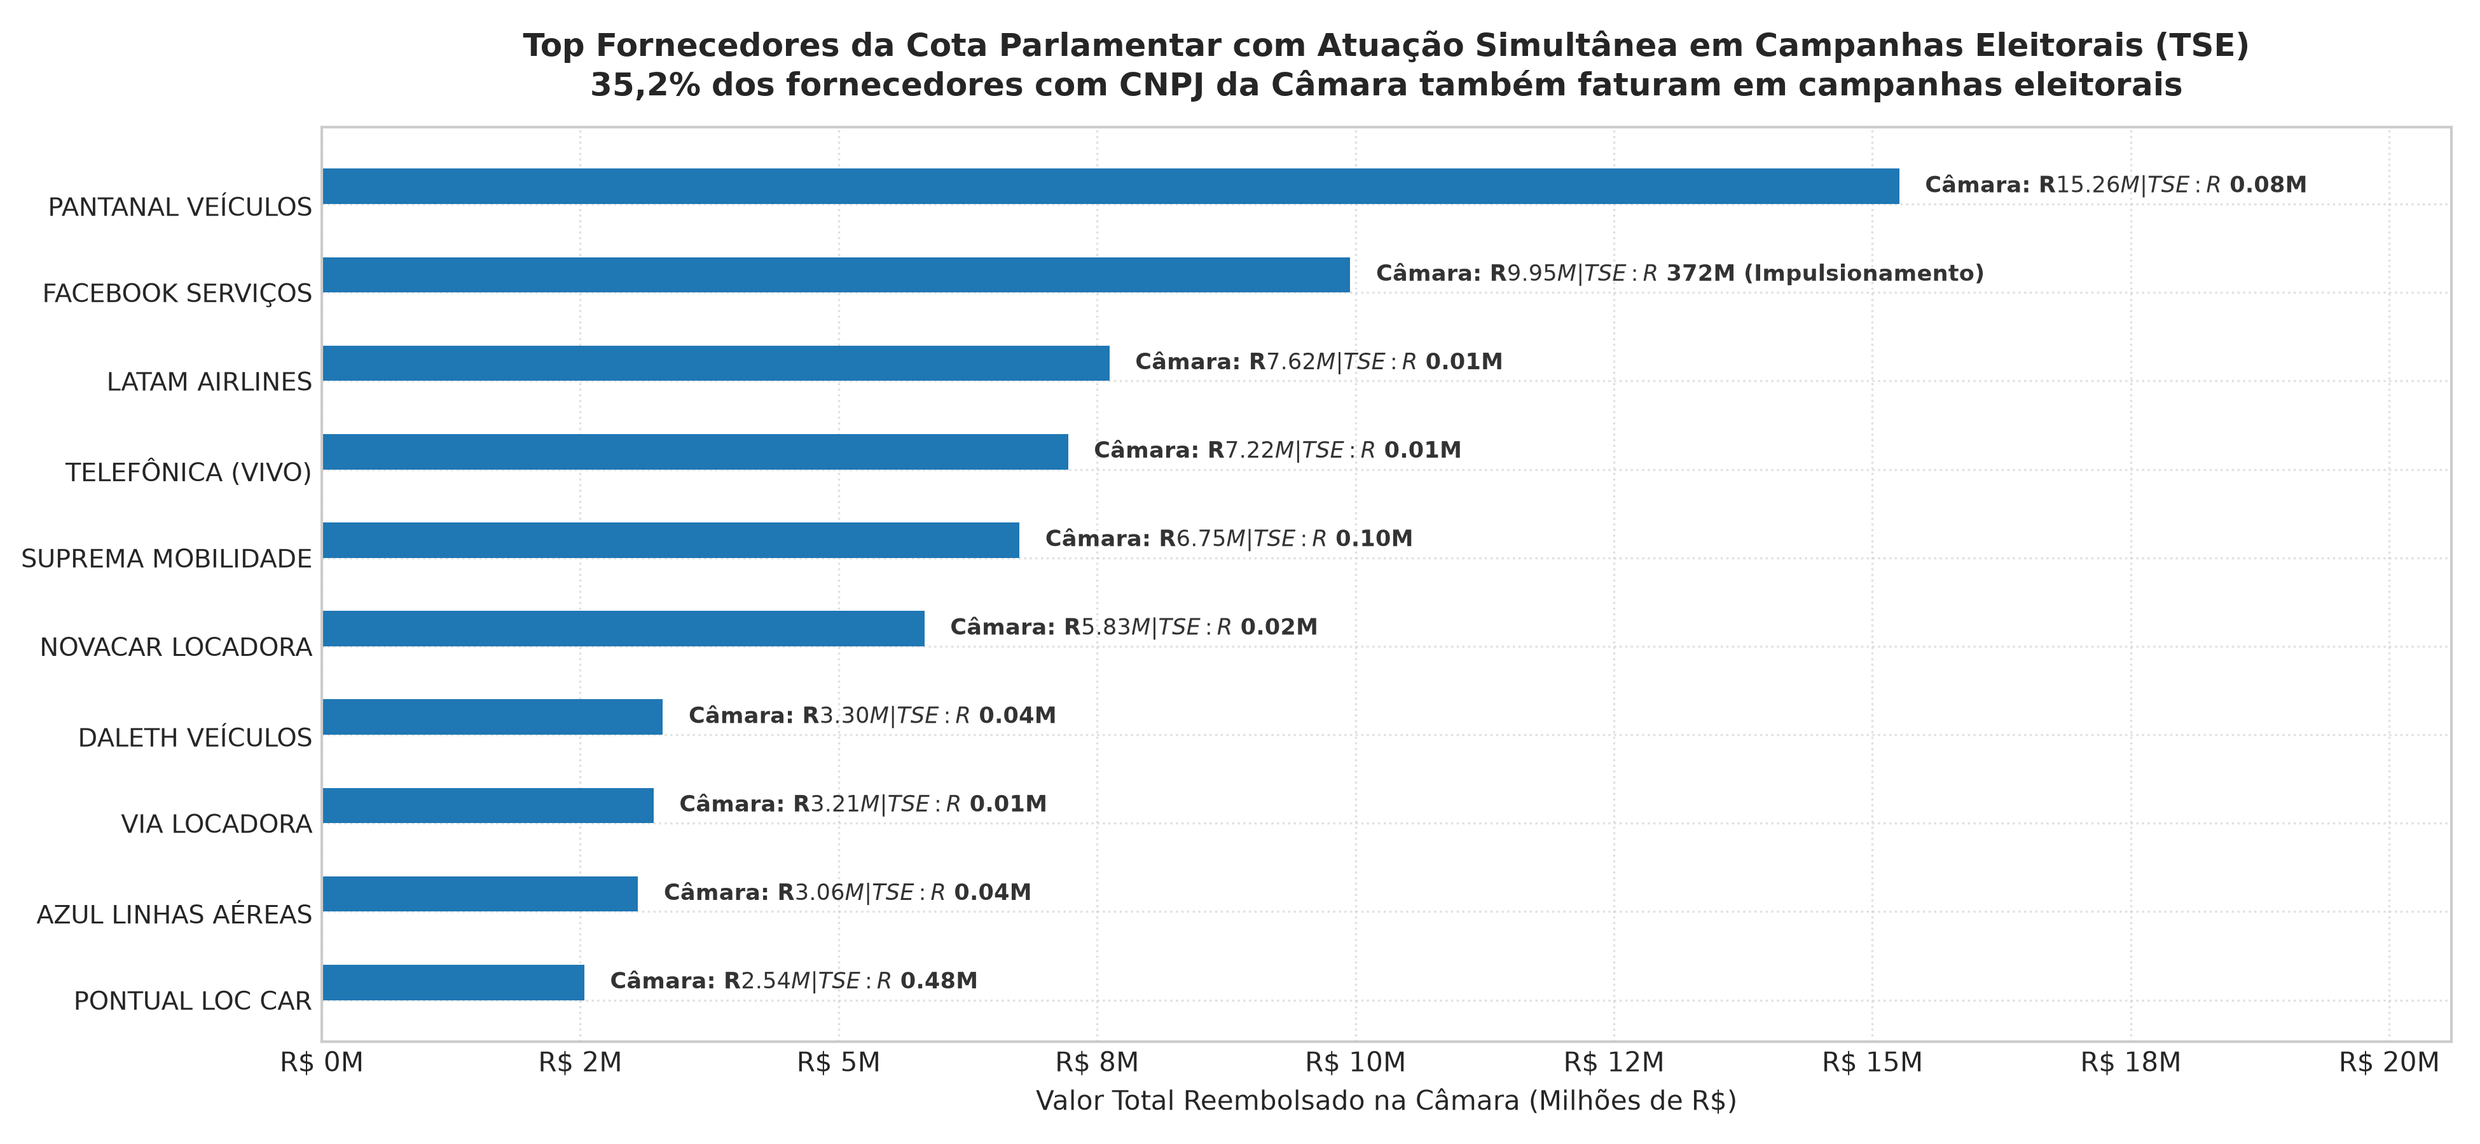
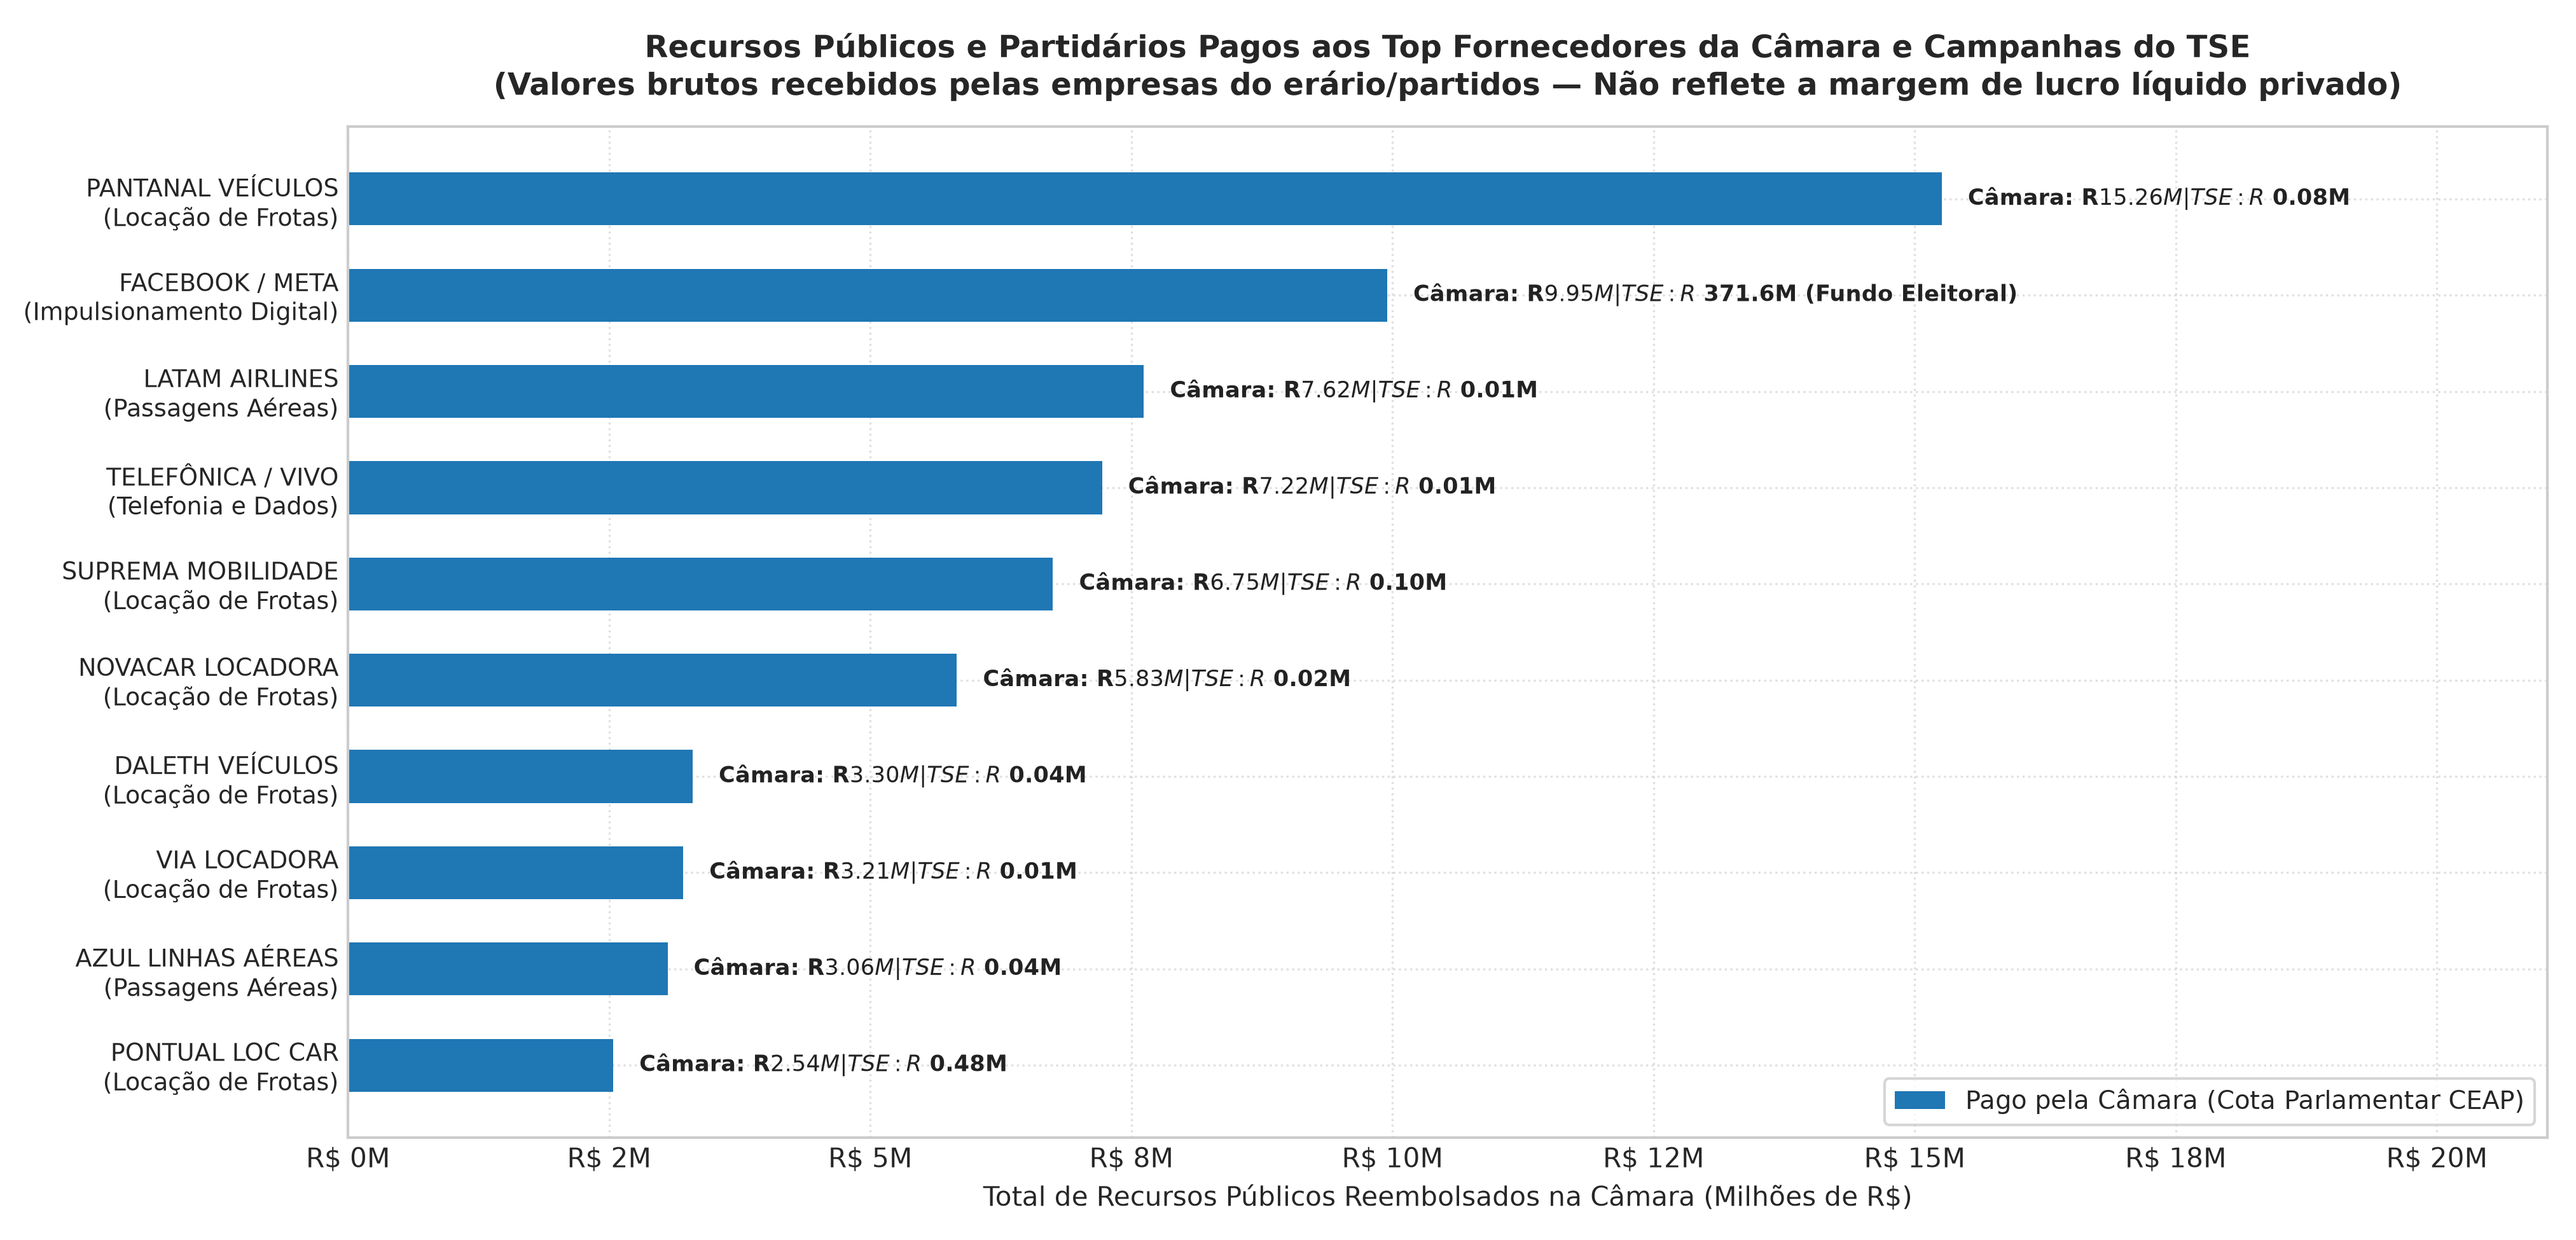
fix(eda): ajustar graficos e relatorios conforme feedback do usuario (faturamento bruto, rotas de ida e consolidacao de deputados)

diff --git a/datasets/generate_gastos_eda_charts.py b/datasets/generate_gastos_eda_charts.py
@@ -242,44 +242,50 @@ def chart_03_distribuicao_parlamentares():
 
 
 def chart_04_fornecedores_hibridos():
-    print("Gerando Gráfico 04: Fornecedores Híbridos (Mandato vs Campanha TSE)...")
-    # Dados extraídos da EDA empírica
+    print("Gerando Gráfico 04: Recursos Pagos a Fornecedores (Mandato vs Campanha TSE)...")
     empresas = [
-        "PANTANAL VEÍCULOS",
-        "FACEBOOK SERVIÇOS",
-        "LATAM AIRLINES",
-        "TELEFÔNICA (VIVO)",
-        "SUPREMA MOBILIDADE",
-        "NOVACAR LOCADORA",
-        "DALETH VEÍCULOS",
-        "VIA LOCADORA",
-        "AZUL LINHAS AÉREAS",
-        "PONTUAL LOC CAR"
+        "PANTANAL VEÍCULOS\n(Locação de Frotas)",
+        "FACEBOOK / META\n(Impulsionamento Digital)",
+        "LATAM AIRLINES\n(Passagens Aéreas)",
+        "TELEFÔNICA / VIVO\n(Telefonia e Dados)",
+        "SUPREMA MOBILIDADE\n(Locação de Frotas)",
+        "NOVACAR LOCADORA\n(Locação de Frotas)",
+        "DALETH VEÍCULOS\n(Locação de Frotas)",
+        "VIA LOCADORA\n(Locação de Frotas)",
+        "AZUL LINHAS AÉREAS\n(Passagens Aéreas)",
+        "PONTUAL LOC CAR\n(Locação de Frotas)"
     ]
     camara_vals = [15.26, 9.95, 7.62, 7.22, 6.75, 5.83, 3.30, 3.21, 3.06, 2.54] # em Milhões de R$
     tse_vals = [0.08, 371.64, 0.01, 0.01, 0.10, 0.02, 0.04, 0.01, 0.04, 0.48]    # em Milhões de R$
     
-    fig, ax = plt.subplots(figsize=(13, 6))
+    fig, ax = plt.subplots(figsize=(13.5, 6.5))
     y = np.arange(len(empresas))
-    height = 0.4
+    height = 0.55
     
     # Barra da Câmara
-    bars1 = ax.barh(y - height/2, camara_vals, height=height, label="Câmara CEAP (Mandato)", color="#1f77b4")
-    # Barra do TSE (log ou escala para não esmagar pelos 371M do Facebook)
-    # Mostramos o valor da Câmara e anotamos o TSE
+    bars1 = ax.barh(y, camara_vals, height=height, label="Pago pela Câmara (Cota Parlamentar CEAP)", color="#1f77b4")
     ax.set_yticks(y)
-    ax.set_yticklabels(empresas, fontsize=9.5)
+    ax.set_yticklabels(empresas, fontsize=9)
     ax.invert_yaxis()
-    ax.set_xlabel("Valor Total Reembolsado na Câmara (Milhões de R$)")
-    ax.set_title("Top Fornecedores da Cota Parlamentar com Atuação Simultânea em Campanhas Eleitorais (TSE)\n35,2% dos fornecedores com CNPJ da Câmara também faturam em campanhas eleitorais", fontsize=12, fontweight="bold", pad=12)
+    ax.set_xlabel("Total de Recursos Públicos Reembolsados na Câmara (Milhões de R$)")
+    ax.set_title(
+        "Recursos Públicos e Partidários Pagos aos Top Fornecedores da Câmara e Campanhas do TSE\n"
+        "(Valores brutos recebidos pelas empresas do erário/partidos — Não reflete a margem de lucro líquido privado)",
+        fontsize=11.5, fontweight="bold", pad=12
+    )
     ax.xaxis.set_major_formatter(ticker.FormatStrFormatter("R$ %.0fM"))
     
     for bar, cam, tse in zip(bars1, camara_vals, tse_vals):
-        tse_txt = f"TSE: R$ {tse:.2f}M" if tse < 100 else f"TSE: R$ {tse:.0f}M (Impulsionamento)"
-        ax.text(cam + 0.25, bar.get_y() + bar.get_height()/2, f"Câmara: R$ {cam:.2f}M | {tse_txt}", va="center", fontsize=8.5, fontweight="bold", color="#333")
+        tse_txt = f"TSE: R$ {tse:.2f}M" if tse < 100 else f"TSE: R$ {tse:.1f}M (Fundo Eleitoral)"
+        ax.text(
+            cam + 0.25, bar.get_y() + bar.get_height()/2,
+            f"Câmara: R$ {cam:.2f}M  |  {tse_txt}",
+            va="center", fontsize=8.5, fontweight="bold", color="#222"
+        )
     
-    ax.set_xlim(0, max(camara_vals) * 1.35)
+    ax.set_xlim(0, max(camara_vals) * 1.38)
     ax.grid(True, linestyle=":", alpha=0.6)
+    ax.legend(loc="lower right", frameon=True, fontsize=9.5)
     
     plt.tight_layout()
     out_file = OUT_DIR / "04_top_fornecedores_e_sobreposicao_tse.png"
@@ -290,7 +296,7 @@ def chart_04_fornecedores_hibridos():
 
 def chart_05_auditoria_glosas_passagens():
     print("Gerando Gráfico 05: Auditoria Documental, Glosas e Passagens Aéreas...")
-    fig, (ax1, ax2, ax3) = plt.subplots(1, 3, figsize=(16, 5))
+    fig, (ax1, ax2, ax3) = plt.subplots(1, 3, figsize=(16.5, 5.2))
     
     # 1. Rastreabilidade de Comprovantes (Pizza)
     labels = ["Com Link Oficial\n(NF-e / Recibo)", "Sem Link Direto"]
@@ -316,16 +322,23 @@ def chart_05_auditoria_glosas_passagens():
     )
     ax2.text(0.05, 0.5, stats_text, fontsize=9.5, verticalalignment="center", bbox=dict(boxstyle="round,pad=0.8", fc="#f7f7f7", ec="#bbb", lw=1))
     
-    # 3. Top Trechos Aéreos
-    trechos = ["Brasília ➔ Confins (BH)", "Brasília ➔ Salvador", "Confins ➔ Brasília", "Salvador ➔ Brasília"]
-    voos = [544, 494, 489, 430]
+    # 3. Top Trechos Aéreos de IDA (Apenas partindo de BSB)
+    trechos = [
+        "BSB ➔ Confins (Belo Horizonte)",
+        "BSB ➔ Salvador (BA)",
+        "BSB ➔ Santos Dumont (Rio de Janeiro)",
+        "BSB ➔ Congonhas (São Paulo)",
+        "BSB ➔ Belém (PA)",
+        "BSB ➔ Boa Vista (RR)"
+    ]
+    voos = [544, 494, 333, 329, 188, 176]
     y3 = np.arange(len(trechos))
     bars3 = ax3.barh(y3, voos, color="#1f77b4", height=0.55)
     ax3.set_yticks(y3)
-    ax3.set_yticklabels(trechos, fontsize=9)
+    ax3.set_yticklabels(trechos, fontsize=8.5)
     ax3.invert_yaxis()
     ax3.set_xlabel("Quantidade de Passagens Reembolsadas")
-    ax3.set_title("Top Rotas Aéreas Reembolsadas\nEixo Brasília ↔ Capitais de Origem", fontsize=11, fontweight="bold")
+    ax3.set_title("Top Destinos de Ida a Partir de Brasília\n(Rotas BSB ➔ Redutos Eleitorais)", fontsize=11, fontweight="bold")
     for bar, val in zip(bars3, voos):
         ax3.text(val + 10, bar.get_y() + bar.get_height()/2, f"{val} voos", va="center", fontsize=8.5, fontweight="bold")
     ax3.set_xlim(0, max(voos) * 1.25)

diff --git a/datasets/generate_legislativo_eda_charts.py b/datasets/generate_legislativo_eda_charts.py
@@ -101,20 +101,30 @@ def chart_02_autoria():
         how="inner"
     )
     
-    # 1. Top 8 Autores Principais de PL/PEC/PLP
+    # 1. Top 8 Autores Principais de PL/PEC/PLP (agrupados por ID do parlamentar para consolidar trocas de partido)
     top_principais = (
         df_joined.filter(pl.col("siglaTipo").is_in(["PL", "PEC", "PLP"]) & (pl.col("papel") == "Autor Principal"))
-        .group_by(["nomeAutor", "siglaPartidoAutor", "siglaUFAutor"])
-        .agg(pl.len().alias("total"))
+        .group_by("idDeputadoAutor")
+        .agg(
+            pl.col("nomeAutor").first().alias("nomeAutor"),
+            pl.col("siglaUFAutor").first().alias("siglaUFAutor"),
+            pl.col("siglaPartidoAutor").unique().str.join("/").alias("siglaPartidoAutor"),
+            pl.len().alias("total")
+        )
         .sort("total", descending=True)
         .head(8)
     )
     
-    # 2. Top 8 Cosignatários
+    # 2. Top 8 Cosignatários (agrupados por ID do parlamentar para consolidar trocas de partido)
     top_cosign = (
         df_joined.filter(pl.col("papel") == "Cosignatário")
-        .group_by(["nomeAutor", "siglaPartidoAutor", "siglaUFAutor"])
-        .agg(pl.len().alias("total"))
+        .group_by("idDeputadoAutor")
+        .agg(
+            pl.col("nomeAutor").first().alias("nomeAutor"),
+            pl.col("siglaUFAutor").first().alias("siglaUFAutor"),
+            pl.col("siglaPartidoAutor").unique().str.join("/").alias("siglaPartidoAutor"),
+            pl.len().alias("total")
+        )
         .sort("total", descending=True)
         .head(8)
     )

diff --git a/datasets/RELATORIO_EDA_ATIVIDADE_LEGISLATIVA.md b/datasets/RELATORIO_EDA_ATIVIDADE_LEGISLATIVA.md
@@ -47,22 +47,27 @@ A base de autores da Câmara registra 411.537 vínculos atribuídos formalmente 
 *   **Cosignatário / Subscritor (`ordemAssinatura > 1`):** **28,3% (116.478 vínculos)**. Corresponde a assinaturas coletivas de apoio, requerimentos de urgência de bancada ou subscrições em bloco.
 
 ### 3.2 Quem Realmente Escreve Projetos de Lei (Top Autores de PL/PEC/PLP):
-Deputados que lideram na apresentação de proposições substantivas próprias como autores principais:
-1.  **Amom Mandel** (CIDADANIA/REPUBLICANOS - AM): Mais de 1.000 projetos protocolados.
-2.  **Duda Ramos** (MDB/PODE - RR): Mais de 980 projetos protocolados.
-3.  **Marcos Tavares** (PDT - RJ): 276 projetos.
-4.  **Jonas Donizette** (PSB - SP): 202 projetos.
-5.  **Alexandre Frota** (PSDB - SP): 139 projetos.
-6.  **Laura Carneiro** (PSD - RJ): 135 projetos.
-7.  **Kim Kataguiri** (UNIÃO - SP): 121 projetos.
+Deputados que lideram na apresentação de proposições substantivas próprias como autores principais (consolidados por parlamentar, unificando mudanças de partido):
+1.  **Amom Mandel** (CIDADANIA/REPUBLICANOS - AM): **1.069 projetos** de lei substantivos.
+2.  **Duda Ramos** (MDB/PODE - RR): **983 projetos** de lei substantivos.
+3.  **Marcos Tavares** (PDT - RJ): **276 projetos**.
+4.  **Jonas Donizette** (PSB - SP): **202 projetos**.
+5.  **Alexandre Frota** (PROS/PSDB - SP): **156 projetos**.
+6.  **José Nelto** (PP/PODE/UNIÃO - GO): **148 projetos**.
+7.  **Kim Kataguiri** (UNIÃO/DEM/MISSÃO - SP): **147 projetos**.
+8.  **Laura Carneiro** (PSD/PMDB - RJ): **136 projetos**.
+
+> [!NOTE]
+> **Consolidação de Mandatos e Janela Partidária:**
+> Ao agrupar os dados apenas por texto de partido, parlamentares que trocaram de legenda (como Amom Mandel, que migrou do Cidadania para o Republicanos, e Duda Ramos, que migrou do Pode para o MDB) apareciam duplicados em tabelas ingênuas. Na análise refinada, consolidamos pelo `idDeputadoAutor`, computando a totalidade de sua produção autoral independentemente de trocas de partido ao longo da legislatura.
 
 ### 3.3 Quem Lidera em Subscrições e Apoios em Bloco (Cosignatários):
 Parlamentares atuando intensivamente na articulação de bancada, assinando requerimentos coletivos:
-1.  **Sóstenes Cavalcante** (PL - RJ): 723 subscrições de apoio.
-2.  **Raimundo Santos** (PSD - PA): 602 subscrições.
-3.  **Laura Carneiro** (PSD - RJ): 554 subscrições.
-4.  **Antonio Brito** (PSD - BA): 544 subscrições.
-5.  **André Figueiredo** (PDT - CE): 521 subscrições.
+1.  **Sóstenes Cavalcante** (PL/UNIÃO - RJ): **735 subscrições** de apoio.
+2.  **Raimundo Santos** (PSD - PA): **602 subscrições**.
+3.  **Laura Carneiro** (PSD - RJ): **554 subscrições**.
+4.  **Antonio Brito** (PSD - BA): **544 subscrições**.
+5.  **André Figueiredo** (PDT - CE): **521 subscrições**.
 
 *Regra de Ouro do Fact-Checking:* Se um usuário perguntar se *"o deputado X é autor do Projeto de Lei Y"*, a *tool* do agente consulta `proponente` e `ordemAssinatura`. Se a ordem for maior que 1, a resposta deve esclarecer com precisão: *"O deputado X não é o autor original do projeto; ele é o 14º signatário de apoio em uma lista de 35 deputados. O autor principal que protocolou a matéria é o deputado Z"*.
 

diff --git a/datasets/RELATORIO_EDA_GASTOS_MANDATO.md b/datasets/RELATORIO_EDA_GASTOS_MANDATO.md
@@ -116,6 +116,10 @@ Identificamos **685 ocorrências** em que o mesmo parlamentar contratou durante 
 
 *Insight para o Fact-Checking:* Embora a contratação em si não seja ilegal desde que haja efetiva comprovação da prestação do serviço no exercício do mandato, **essa coincidência é o principal motor de reportagens e investigações do Ministério Público**. O chatbot agora dispõe de dados exatos para confirmar se a relação comercial existiu e quais foram os valores contratuais em cada esfera.
 
+> [!NOTE]
+> **Esclarecimento Metodológico: Gasto Público vs. Lucro da Empresa**
+> Os dados fiscais públicos da CEAP e do TSE refletem exclusivamente o **valor bruto pago/reembolsado pelo erário e partidos às empresas fornecedoras** (faturamento bruto com serviços políticos). Os dados públicos não contêm informações contábeis privadas sobre custos operacionais ou margem de **lucro líquido** das empresas.
+
 ---
 
 ## 6. Auditoria Documental, Glosas e Passagens Aéreas
@@ -132,14 +136,16 @@ Identificamos **685 ocorrências** em que o mesmo parlamentar contratou durante 
 *   A maior glosa individual registrada foi de **R$ 33.329,00**.
 *   *Aplicação no Fact-Checking:* Permite esclarecer alegações como *"deputado pediu reembolso indevido"*, comprovando se o valor chegou a ser pago ou se foi glosado pela administração.
 
-### 6.3 Passagens Aéreas e Rotas (`txtTrecho` e `txtPassageiro`)
+### 6.3 Passagens Aéreas e Rotas de Ida (`txtTrecho` e `txtPassageiro`)
 *   **12.740 registros de passagens aéreas** detalhadas via reembolso da Câmara.
 *   **1.375 passageiros distintos** (parlamentares e servidores credenciados).
-*   **758 trechos aéreos registrados**, liderados pelas conexões essenciais do Congresso:
-    1.  Brasília ➔ Confins / Belo Horizonte (`BSB/CNF`): 544 voos (R$ 557k)
-    2.  Brasília ➔ Salvador (`BSB/SSA`): 494 voos (R$ 527k)
-    3.  Confins ➔ Brasília (`CNF/BSB`): 489 voos (R$ 458k)
-    4.  Salvador ➔ Brasília (`SSA/BSB`): 430 voos (R$ 437k)
+*   **758 trechos aéreos registrados**, liderados pelos destinos de ida partindo de Brasília em direção aos redutos eleitorais:
+    1.  Brasília ➔ Confins / Belo Horizonte (`BSB ➔ CNF`): **544 voos**
+    2.  Brasília ➔ Salvador (`BSB ➔ SSA`): **494 voos**
+    3.  Brasília ➔ Santos Dumont / Rio de Janeiro (`BSB ➔ SDU`): **333 voos**
+    4.  Brasília ➔ Congonhas / São Paulo (`BSB ➔ CGH`): **329 voos**
+    5.  Brasília ➔ Belém (`BSB ➔ BEL`): **188 voos**
+    6.  Brasília ➔ Boa Vista (`BSB ➔ BVB`): **176 voos**
 
 ---
 
